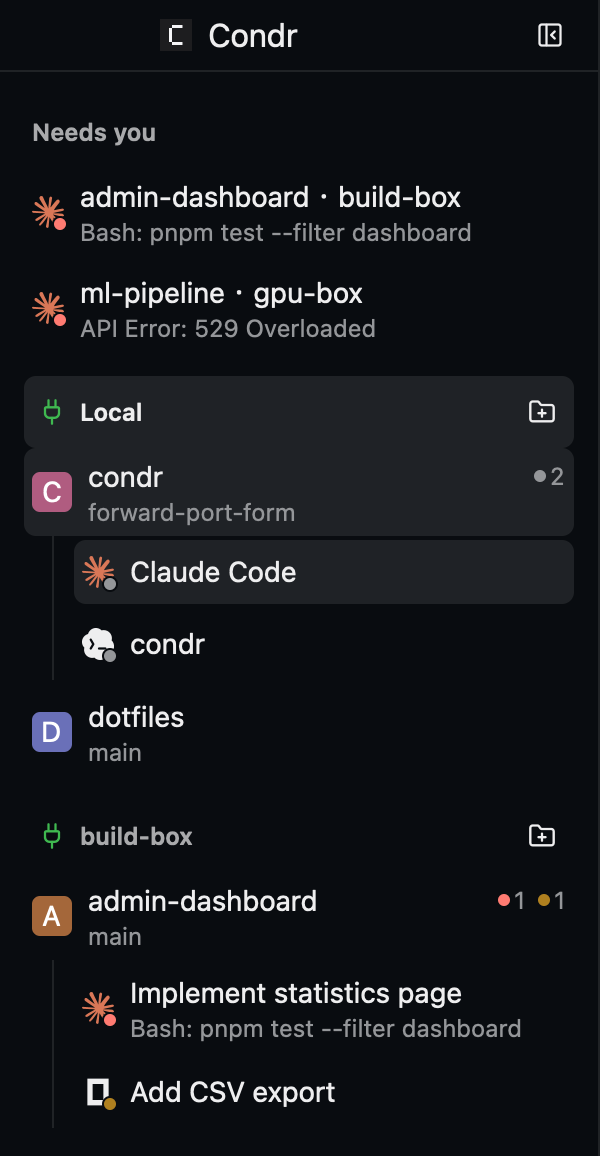
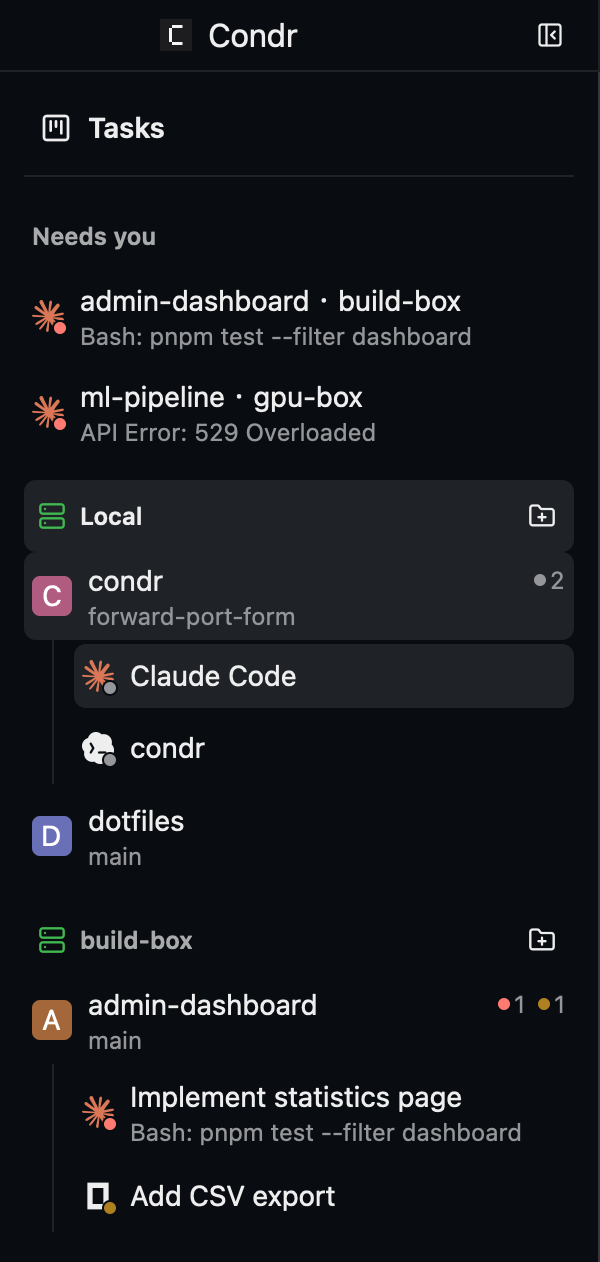
docs: the website's and README's screenshots show today's GUI
Retaken on GPUI Kit 0.10: the sidebar's Tasks row and Agents section,
and the Diff Tab's split view scrolling instead of wrapping. Needs you
folds the Agents section and grows by the Tasks row, so it still ends
with build-box's agents.

diff --git a/crates/condr-gui/src/app/screenshots/website.rs b/crates/condr-gui/src/app/screenshots/website.rs
@@ -151,7 +151,9 @@ pub(crate) fn run(directory: PathBuf) {
 
     let devices = [&local, &build_box, &gpu_box];
     let (window, view) = open(&mut cx, (1280., 800.), devices);
+    // The Agents section folded, so the Workspaces under Needs you have the column.
     update(&mut cx, window, &view, |this, window, cx| {
+        this.window_view_mut(window).agents_collapsed = true;
         this.select_workspace(1, condr, window, cx)
     });
     wait_for(&mut admin, claude, "Claude Code");
@@ -161,7 +163,7 @@ pub(crate) fn run(directory: PathBuf) {
     stage(&mut cx, window, &view, &staged);
     let image = capture(&mut cx, window);
     // Down to the end of build-box: Needs you and the Devices it names, not the whole column.
-    save(&image, &directory, "needs-you", (0., 0., SIDEBAR, 578.));
+    save(&image, &directory, "needs-you", (0., 0., SIDEBAR, 631.));
     save(
         &image,
         &directory,
